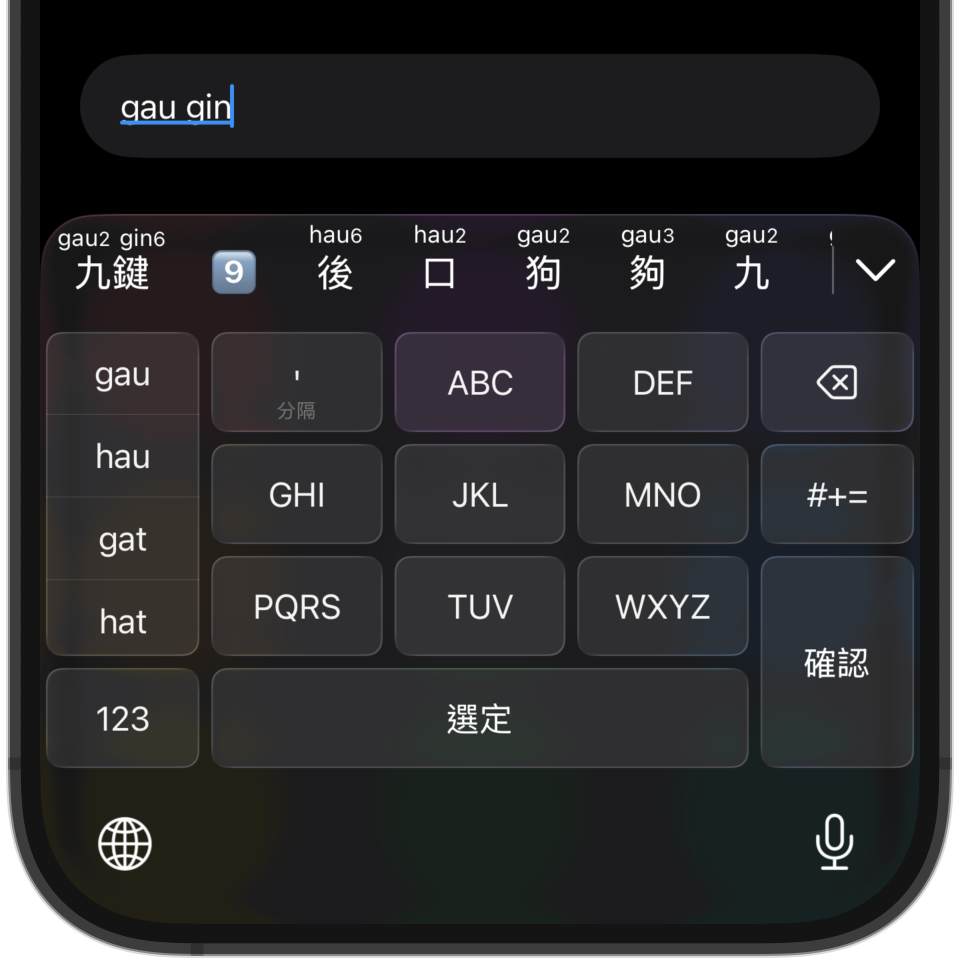
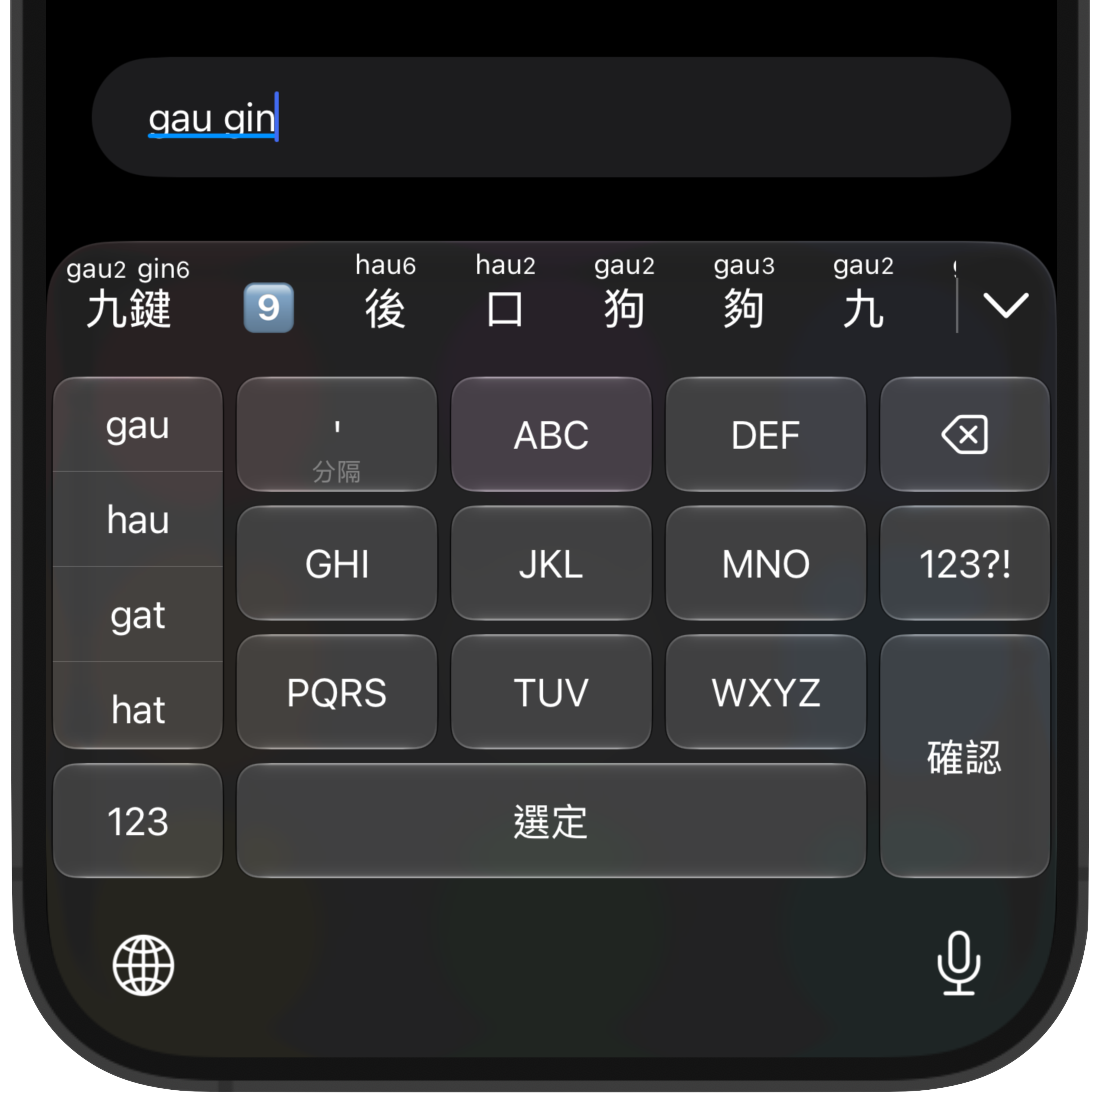
Update iPhone screenshot images

diff --git a/index.html b/index.html
@@ -128,6 +128,25 @@
                 <p class="left-align even-more-line-height gap3em">
                         可以用普通話拼音、倉頡、速成、筆畫、拆字等反查粵拼。
                 </p>
+                <div class="screenshot-row gap2em">
+                        <picture>
+                                <source srcset="images/pinyin-reverse-lookup-dark.png" media="(prefers-color-scheme: dark)">
+                                <img src="images/pinyin-reverse-lookup.png" alt="Pinyin reverse lookup">
+                        </picture>
+                        <picture>
+                                <source srcset="images/cangjie-reverse-lookup-dark.png" media="(prefers-color-scheme: dark)">
+                                <img src="images/cangjie-reverse-lookup.png" alt="Cangjie reverse lookup">
+                        </picture>
+                </div>
+                <p class="left-align even-more-line-height gap5em">
+                        應用程式內有輸入法嘅更多功能介紹。<br>
+                        例如聲調輸入、簡拼輸入，部件拆字反查粵拼。
+                </p>
+                <p class="left-align even-more-line-height gap2em">
+                        仲有粵語語音朗讀、字典、教學等各種實用功能。
+                </p>
+                <br>
+                <br>
         </div>
         <div class="card">
                 <h2>
